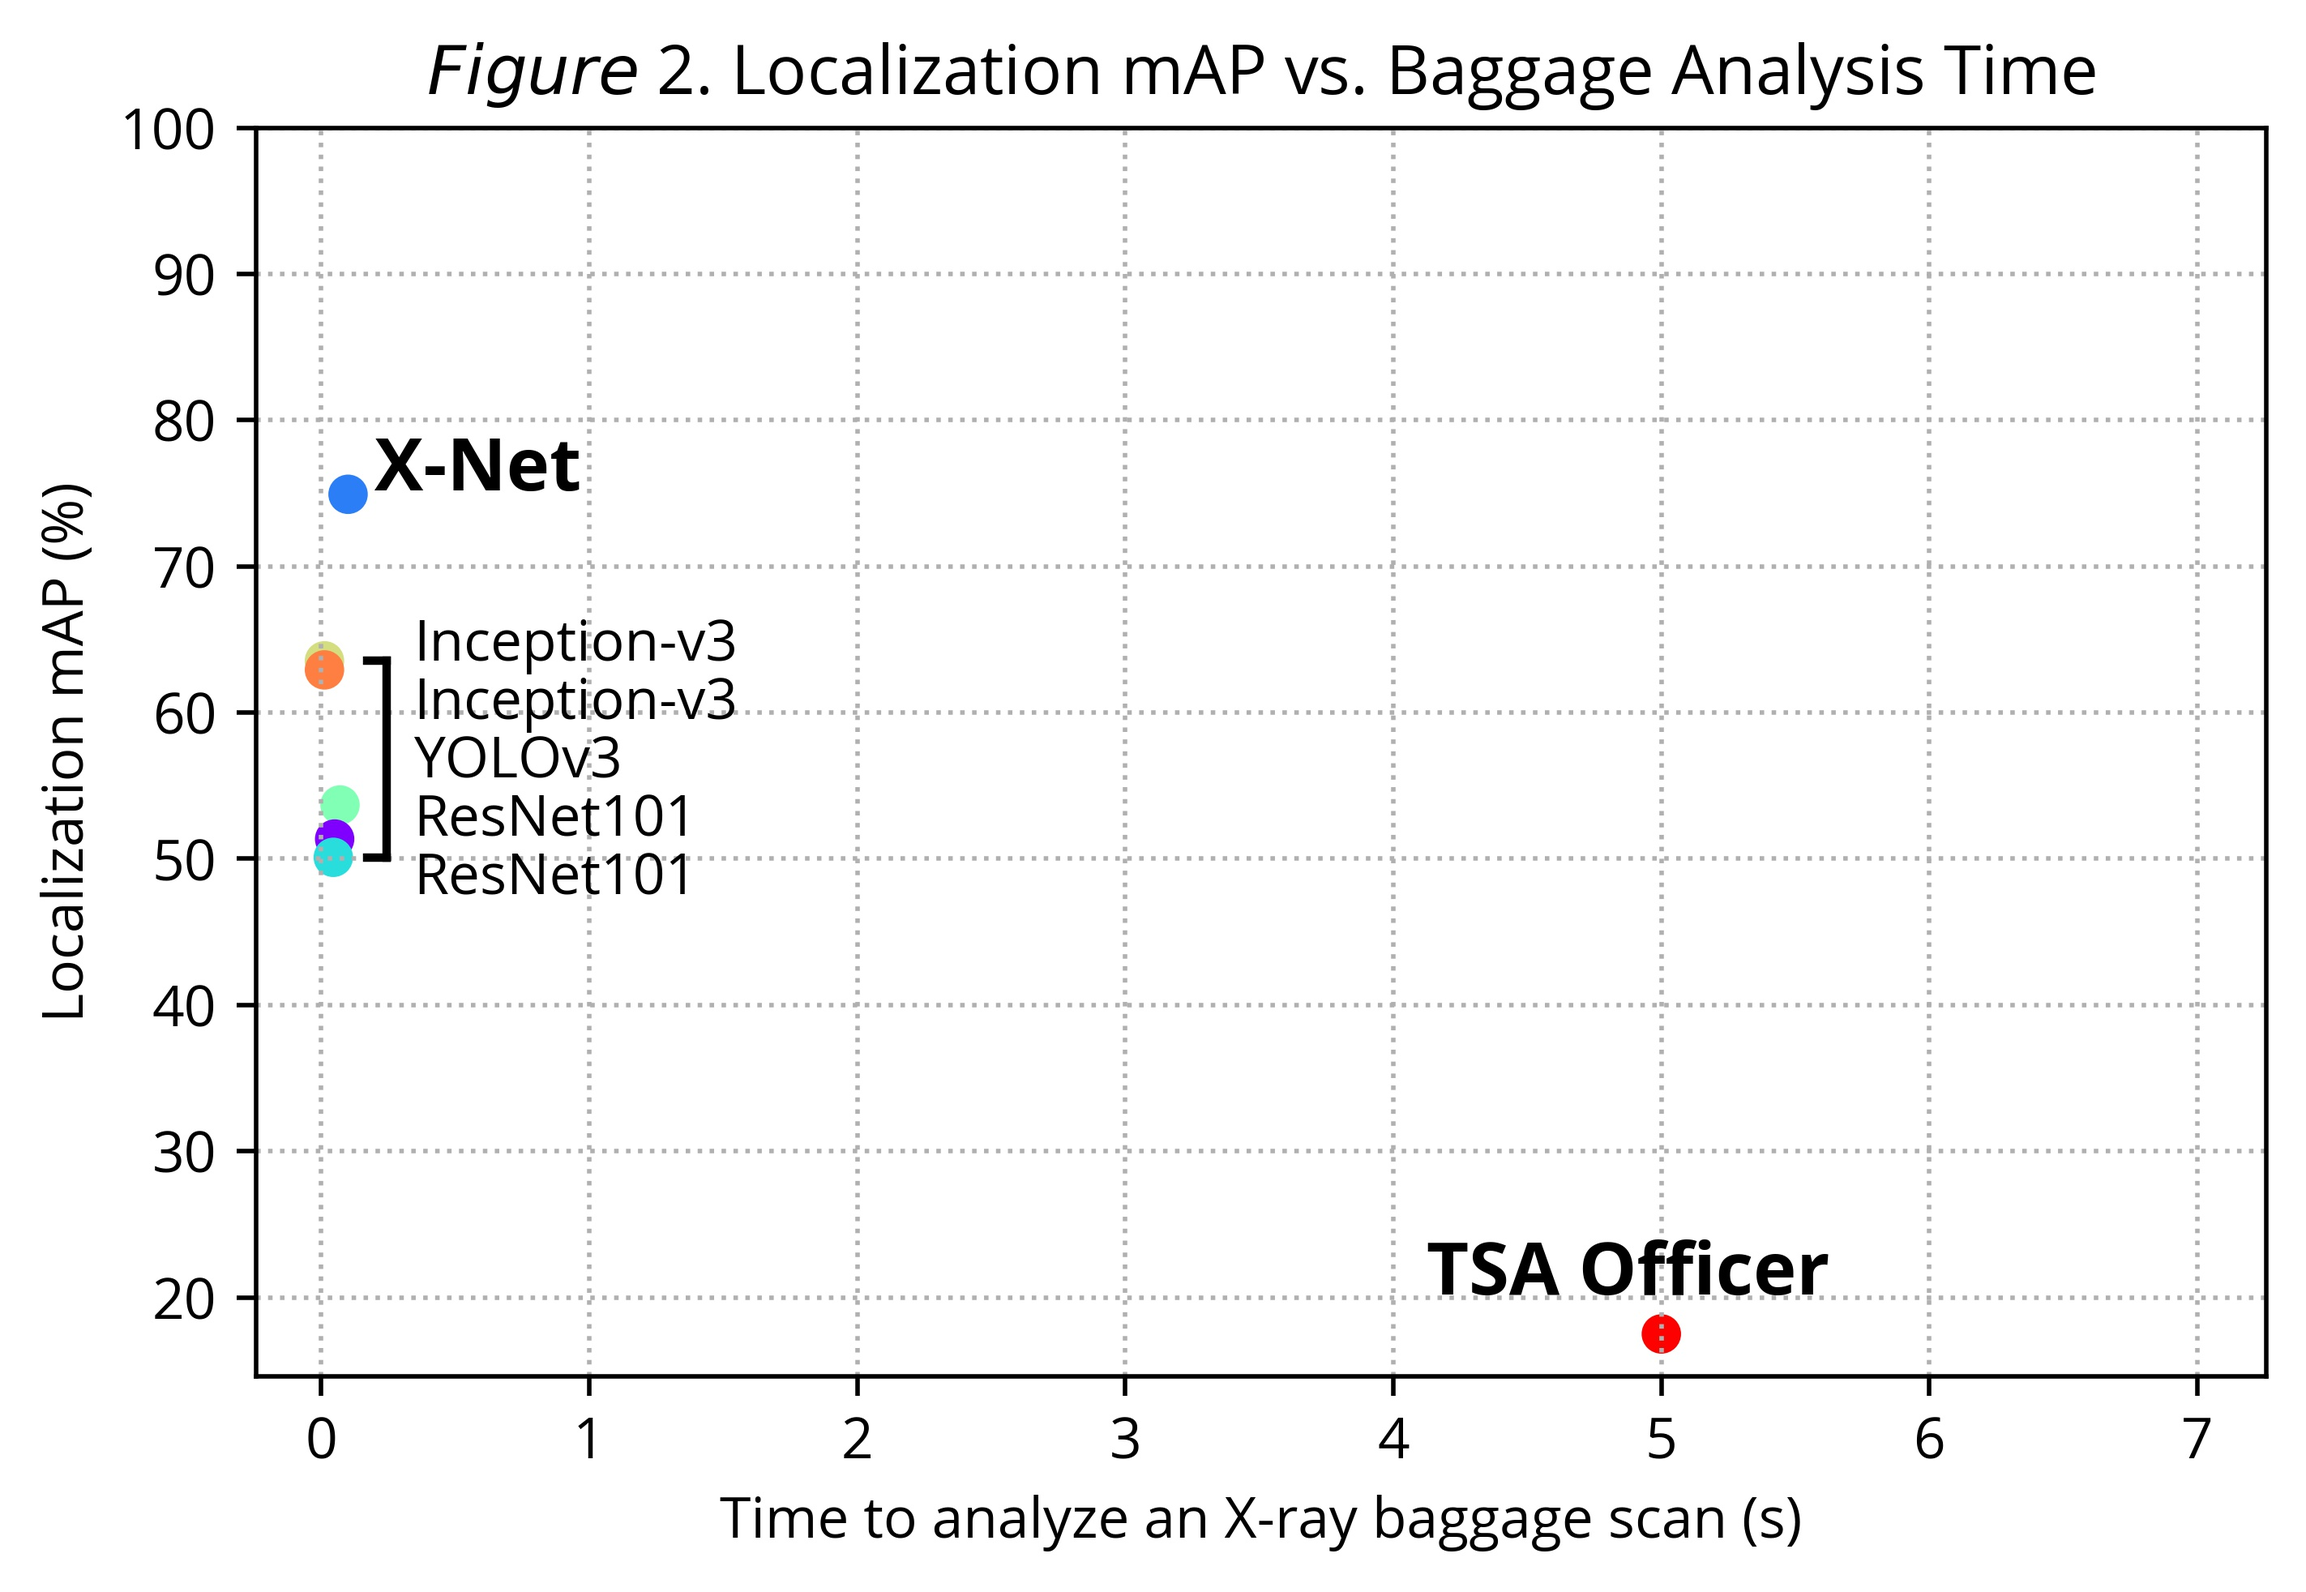
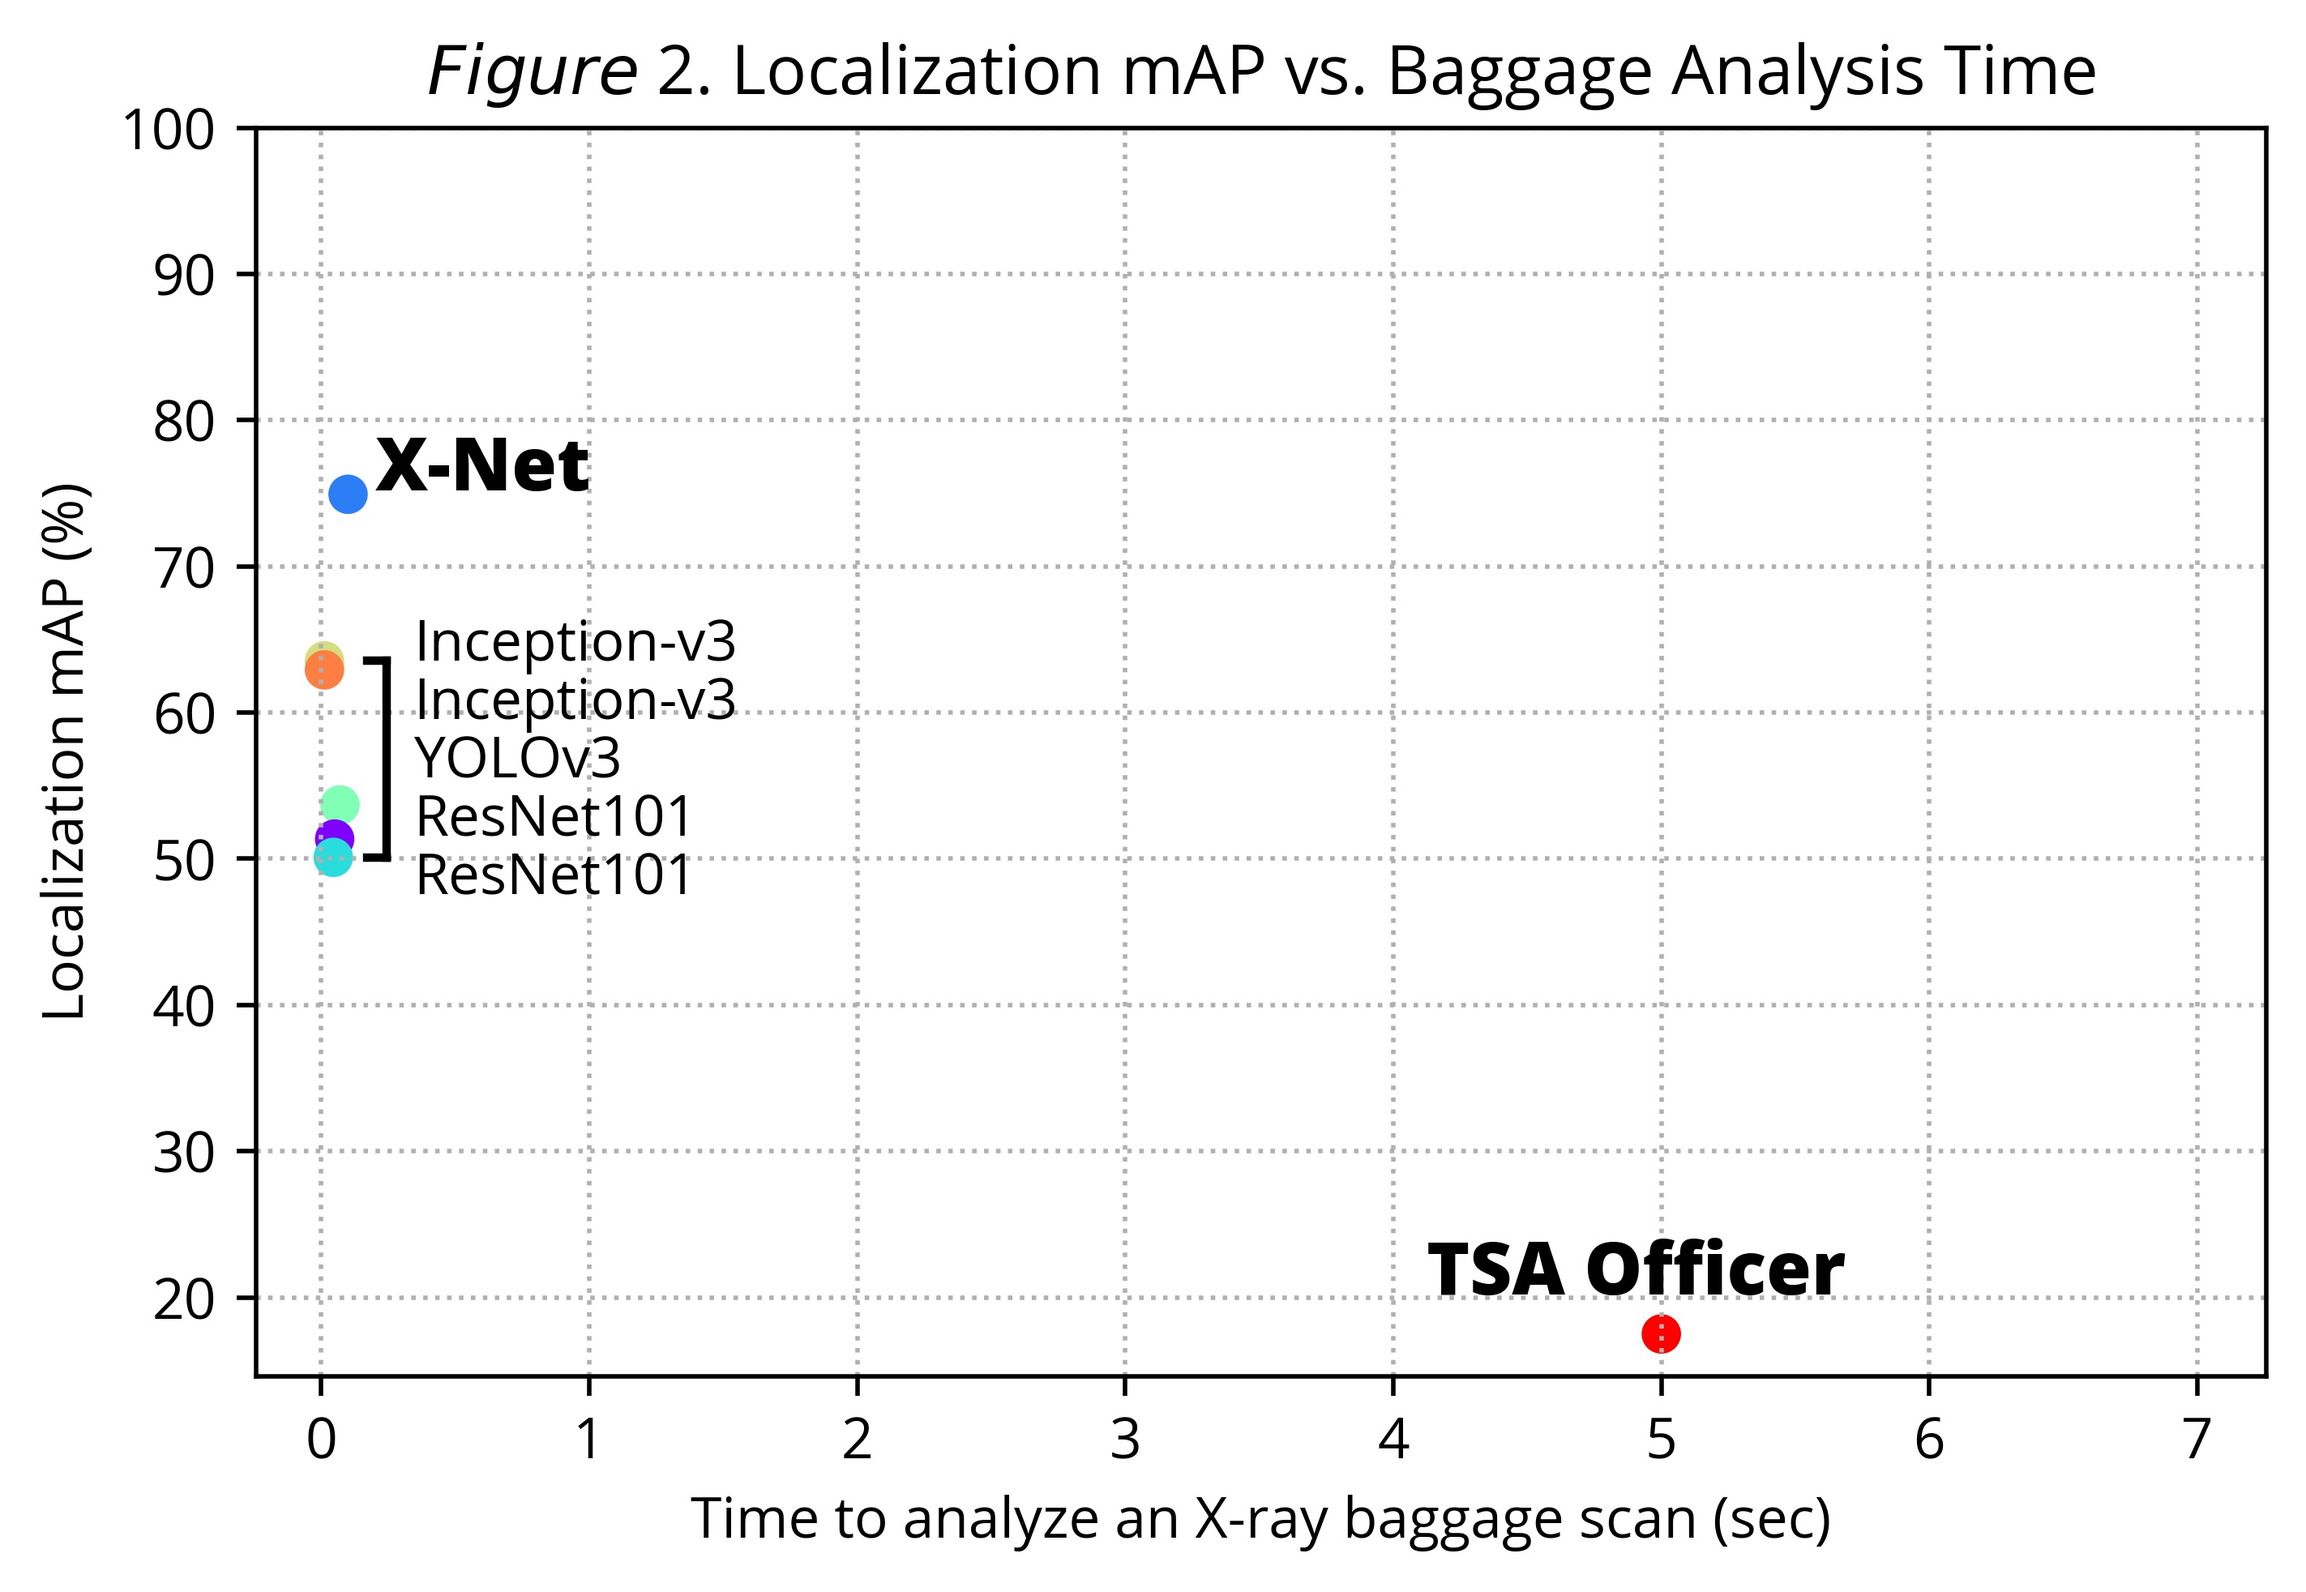
adding sec abbrv in plots

Changed region(s): [[0.3093, 0.9318, 0.8042, 0.9939], [0.6186, 0.7765, 0.8042, 0.8386], [0.1547, 0.2795, 0.2784, 0.3106]]

diff --git a/utils/visuals.py b/utils/visuals.py
@@ -192,7 +192,7 @@ def plot(results, mode, save_path=None, with_citations=False):
     apa_citation = "$\it{Figure}$ " + ("1" if mode == "classification" else "2")
 
     plt.title("{}. {} mAP vs. Baggage Analysis Time".format(apa_citation, mode.title()))
-    plt.xlabel("Time to analyze an X-ray baggage scan (s)")
+    plt.xlabel("Time to analyze an X-ray baggage scan (sec)")
     plt.ylabel("{} mAP (%)".format(mode.title()))
 
     x1, x2, y1, y2 = plt.axis()
